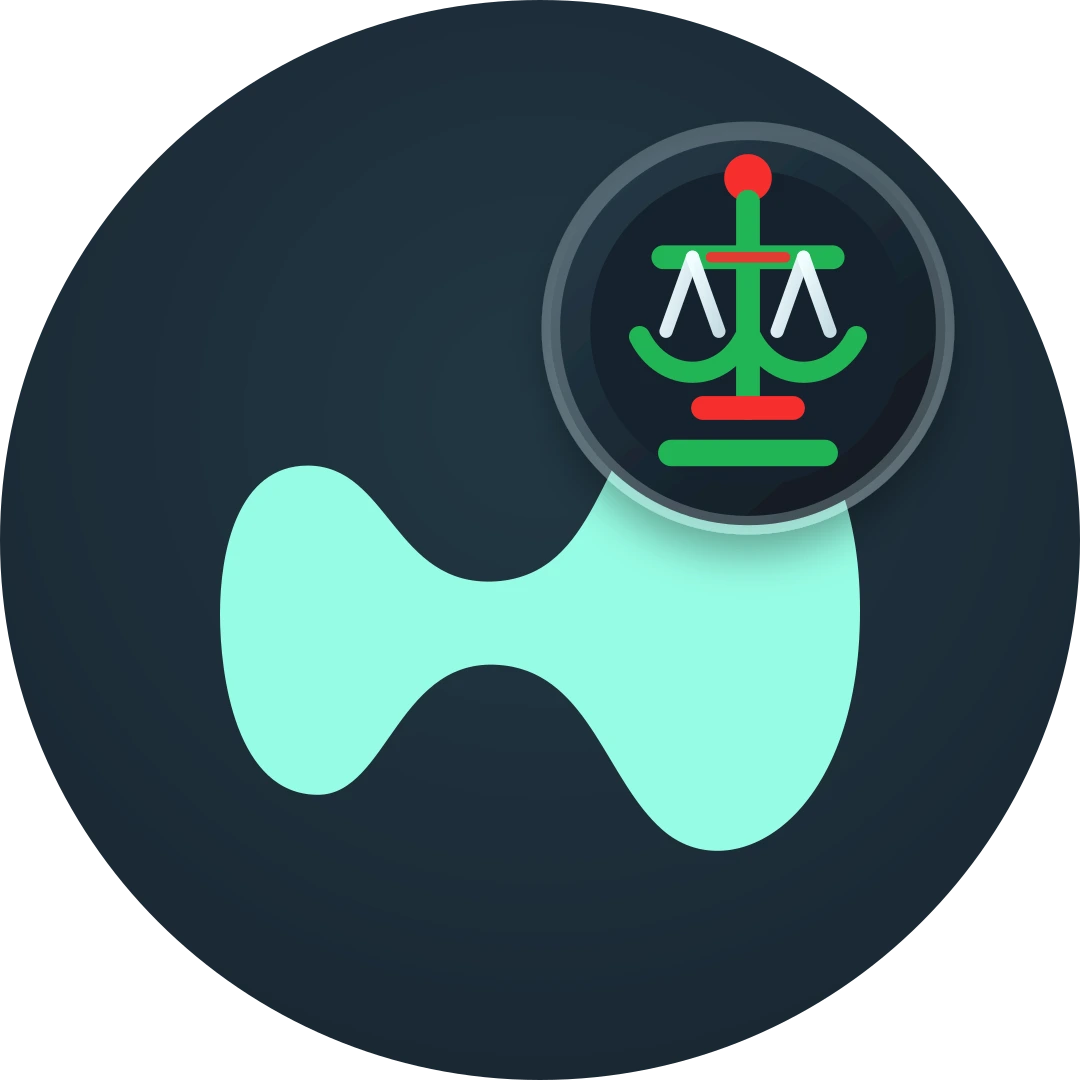
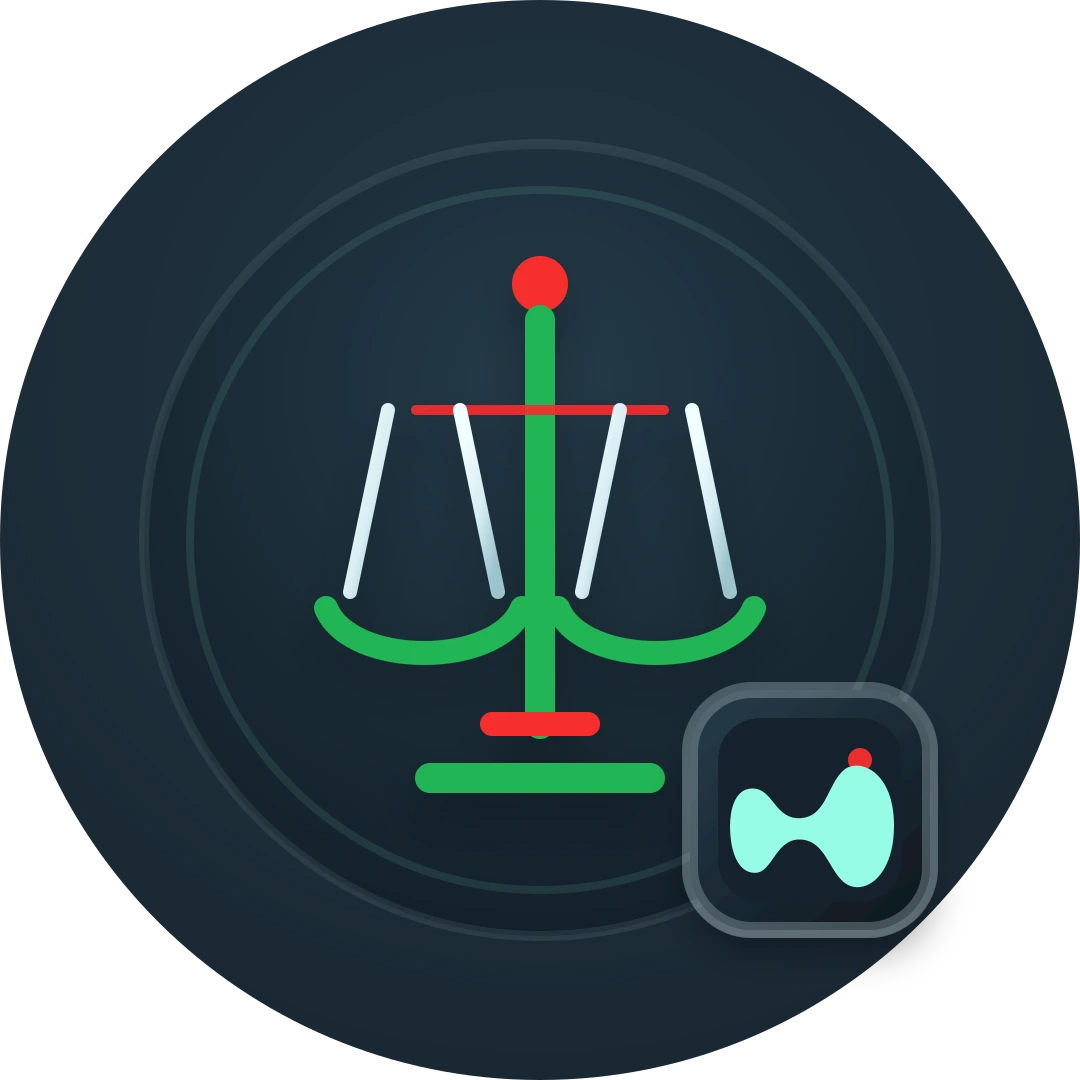
Misc updates

Changed region(s): [[0.1833, 0.0917, 0.8861, 0.8861]]

diff --git a/CLAUDE.md b/CLAUDE.md
@@ -11,6 +11,10 @@ SvelteKit-based frontend for the Trading Strategy protocol, featuring automated 
 - Use UK/British English: `visualise` not `visualize`, `colour` not `color`
 - For headings, only capitalise the first letter (not title case)
 
+## Design, art and graphics
+
+See `docs/theme.md`.
+
 ## Common commands
 
 ```shell
